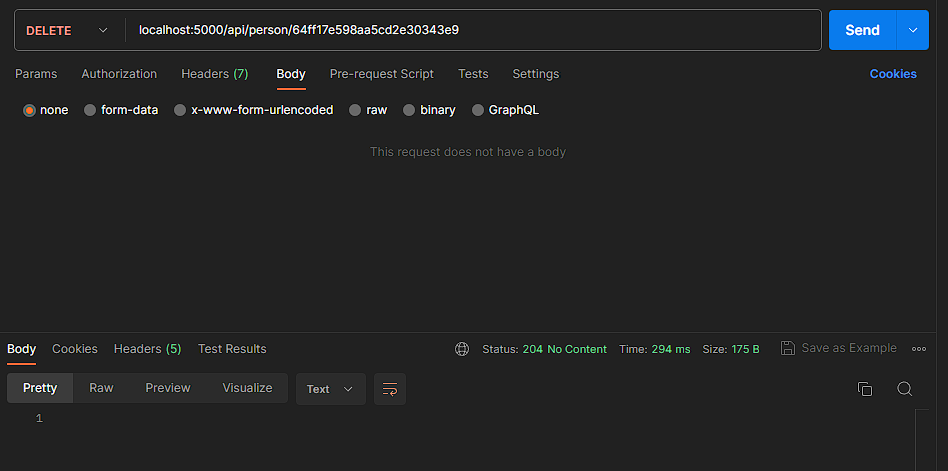
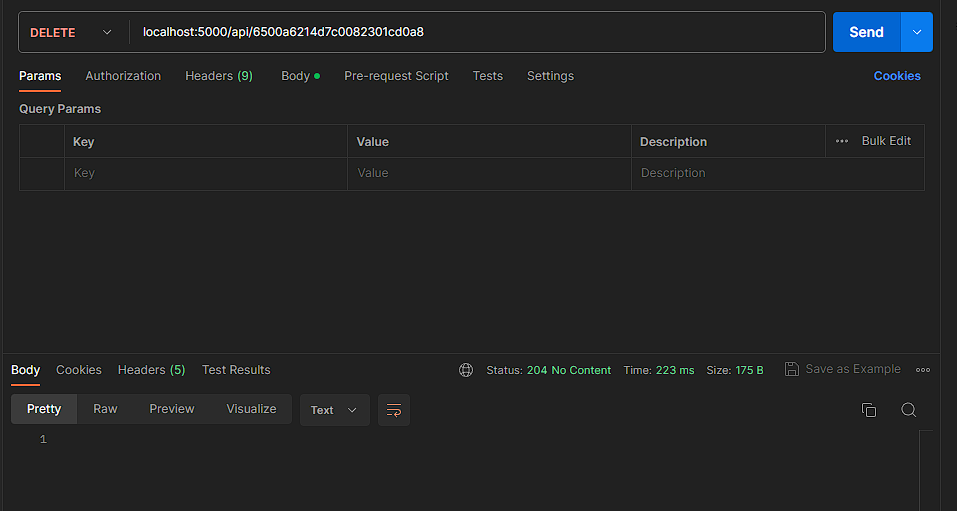
changed test images

diff --git a/ProjectTwo/README.md b/ProjectTwo/README.md
@@ -19,23 +19,27 @@ API testing software eg. ``Postman`` or ``Insomnia`` or ``Thunder Bolt``
     $ npm start
 ```
 ## Endpoints
-``POST`` <localhost:5000/api/person/>  
-``GET`` <localhost:5000/api/person/:id>   
-``PUT`` <localhost:5000/api/person/:id>  
-``DELETE`` <localhost:5000/api/person/:id>  
+``POST`` <localhost:5000/api>  
+``GET`` <localhost:5000/api/:personId>   
+``PUT`` <localhost:5000/api/:personId>  
+``DELETE`` <localhost:5000/api/:personId>  
 
 ``person`` model takes ``name`` only from body.  
 ## Example
 ``Create person``  
-![Create Person](./src/images/post_request.png)  
 
-``Get Person``
+![Create Person](./src/images/create_person.png)  
+
+``Get Person``  
+
 ![Get Person](./src/images/get_person.png)  
 
-``Update Person``
+``Update Person``  
+
 ![Update Person](./src/images/update_person.png)  
 
-``Delete Person``
+``Delete Person``  
+
 ![Delete Person](./src/images/delete_person.png)  
 
 ## UML Diagram  
